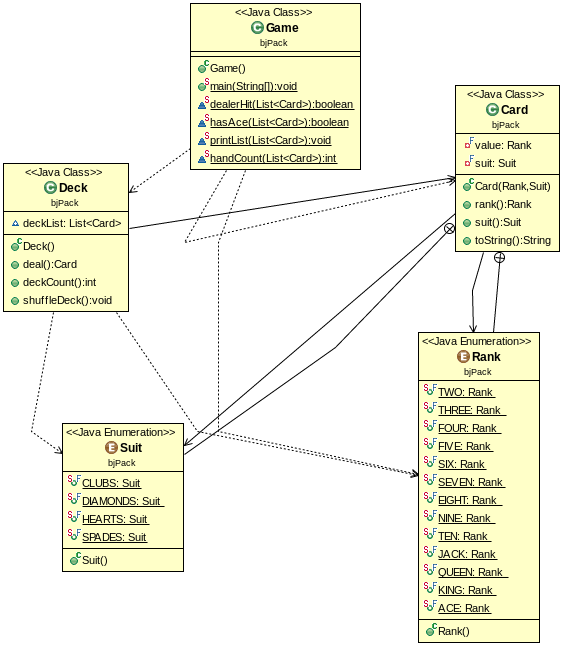
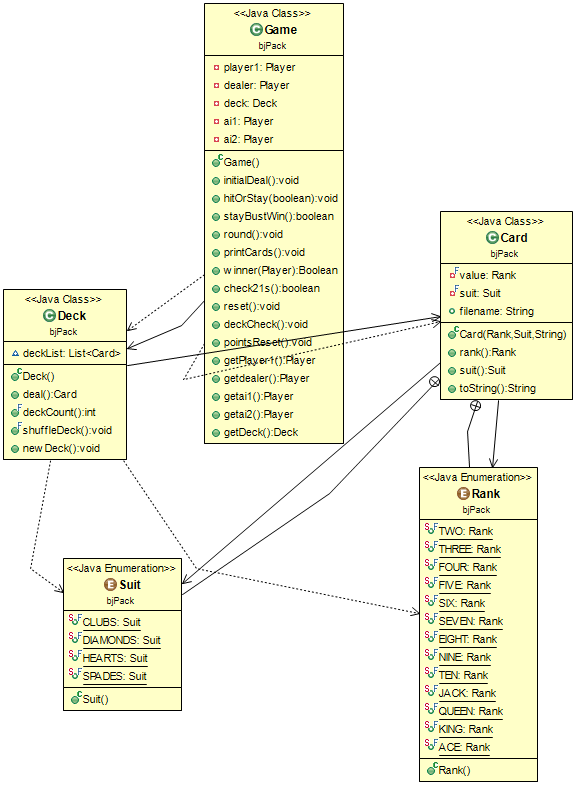
More stuff to api

diff --git a/Blackjack/src/bjPack/Game.java b/Blackjack/src/bjPack/Game.java
@@ -1,4 +1,5 @@
 package bjPack;
+
 /*****************************************************************
 Game class for blackjack game, handles the actual running
 of the game, interacting with the players and deck
@@ -14,12 +15,13 @@ public class Game {
 	private Deck deck;
 	private Player ai1;
 	private Player ai2;
-	
+
 	/*****************************************************************
-	Constructor for game class, initializes the human and ai players,
-	ai dealer, sets dealer's point to default 500
-	@param n/a
-	*****************************************************************/
+	 * Constructor for game class, initializes the human and ai players, ai
+	 * dealer, sets dealer's point to default 500
+	 * 
+	 * @param n/a
+	 *****************************************************************/
 	public Game() {
 
 		deck = new Deck();
@@ -33,11 +35,12 @@ public class Game {
 	}
 
 	/*****************************************************************
-	method to peform initial dealer, deals each player 2 cards, does
-	bets for each player, each non-dealer player bets 10, dealer bets 
-	30, 10 points against each other player. 
-	@param n/a
-	*****************************************************************/
+	 * method to peform initial dealer, deals each player 2 cards, does bets for
+	 * each player, each non-dealer player bets 10, dealer bets 30, 10 points
+	 * against each other player.
+	 * 
+	 * @param n/a
+	 *****************************************************************/
 	public void initialDeal() {
 		player1.bet(10);
 		dealer.bet(30);
@@ -55,30 +58,33 @@ public class Game {
 	}
 
 	/*****************************************************************
-	sets user hit to true or false depending on input
-	@param boolean hit, sets userHit in player to true or false
-	*****************************************************************/
+	 * sets user hit to true or false depending on input
+	 * 
+	 * @param hit,
+	 *            sets userHit in player to true or false
+	 *****************************************************************/
 	public void hitOrStay(boolean hit) {
 		player1.userHit(hit);
 	}
 
 	/*****************************************************************
-	checks if both player and dealer have stayed, if the player or 
-	dealer have busted, or if the player or dealer has
-	reached 21, and returns a boolean value. 
-	@param n/a
-	@returns returns true if game end circumstance listed
-	above have happened, false if they haven't and game keeps going
-	*****************************************************************/
+	 * checks if both player and dealer have stayed, if the player or dealer
+	 * have busted, or if the player or dealer has reached 21, and returns a
+	 * boolean value.
+	 * 
+	 * @param n/a
+	 * @return returns true if game end circumstance listed above have happened,
+	 *         false if they haven't and game keeps going
+	 *****************************************************************/
 	public boolean stayBustWin() {
 
-		if (player1.getUserHit() == false && 
-				dealer.getUserHit() == false) {
+		if (player1.getUserHit() == false && dealer.getUserHit() == false) {
 			return true;
 		}
 
-		if (player1.playerBust() == true || dealer.playerBust() == true)
+		if (player1.playerBust() == true || dealer.playerBust() == true) {
 			return true;
+		}
 		if (player1.blackJack() == true || dealer.blackJack() == true) {
 			return true;
 		}
@@ -91,19 +97,18 @@ public class Game {
 	}
 
 	/*****************************************************************
-	 runs through a round of the game, checking if each player has 
-	 stayed or busted, and if they haven't deals them a card
-	@param n/a
-	*****************************************************************/
+	 * runs through a round of the game, checking if each player has stayed or
+	 * busted, and if they haven't deals them a card
+	 * 
+	 * @param n/a
+	 *****************************************************************/
 	public void round() {
 		deckCheck();
-		if (player1.getUserHit() == true && 
-				player1.playerBust() == false) {
+		if (player1.getUserHit() == true && player1.playerBust() == false) {
 			player1.addCard(deck.deal());
 		}
 		if (dealer.getUserHit() == true && player1.playerBust() == false) {
-			if (dealer.playerHit(player1) == true && 
-					dealer.playerBust() == false) {
+			if (dealer.playerHit(player1) == true && dealer.playerBust() == false) {
 				dealer.addCard(deck.deal());
 			}
 
@@ -119,9 +124,10 @@ public class Game {
 	}
 
 	/*****************************************************************
-	 prints cards in console, only used for testing purposes 
-	@param n/a
-	*****************************************************************/
+	 * prints cards in console, only used for testing purposes.
+	 * 
+	 * @param n/a
+	 *****************************************************************/
 	public void printCards() {
 		System.out.print("player hand is");
 		player1.printList();
@@ -134,29 +140,27 @@ public class Game {
 	}
 
 	/*****************************************************************
-	 checks the player sent to the method against the dealer, 
-	 returns true if player wins, false if dealer wins, redistributes 
-	 bets accordingly. 
-	@param Player player, the player to check against the dealer
-	@return True if player has beaten dealer, false if player has
-	lost against the dealer.
-	*****************************************************************/
+	 * checks the player sent to the method against the dealer, returns true if
+	 * player wins, false if dealer wins, redistributes bets accordingly.
+	 * 
+	 * @param player
+	 *            player, the player to check against the dealer
+	 * @return True if player has beaten dealer, false if player has lost
+	 *         against the dealer.
+	 *****************************************************************/
 	public Boolean winner(Player player) {
 		if (dealer.handValue() == 21) {
 			player.playerLose();
 			dealer.dealerWin(player.getBet());
 			return false;
 		}
-		if ((player.handValue() > dealer.handValue() && 
-				player.handValue() <= 21)
-				|| (dealer.playerBust() == true && 
-				player.playerBust() == false)) {
+		if ((player.handValue() > dealer.handValue() && player.handValue() <= 21)
+				|| (dealer.playerBust() == true && player.playerBust() == false)) {
 			player.playerWin();
 			dealer.playerLose();
 			return true;
 
-		} else if (dealer.handValue() >= player.handValue() || 
-				player.playerBust() == true) {
+		} else if (dealer.handValue() >= player.handValue() || player.playerBust() == true) {
 			player.playerLose();
 			dealer.dealerWin(player.getBet());
 			return false;
@@ -167,10 +171,11 @@ public class Game {
 	}
 
 	/*****************************************************************
-	checks if player or dealer has 21
-	@param n/a
-	@return returns true if player or dealer has 21, false if not
-	*****************************************************************/
+	 * checks if player or dealer has 21
+	 * 
+	 * @param n/a
+	 * @return returns true if player or dealer has 21, false if not
+	 *****************************************************************/
 	public boolean check21s() {
 		if (player1.blackJack() == true || dealer.blackJack() == true) {
 			return true;
@@ -179,10 +184,10 @@ public class Game {
 	}
 
 	/*****************************************************************
-	resets the game, discards player hands, remakes and reshuffles
-	the deck. 
-	@param n/a
-	*****************************************************************/
+	 * resets the game, discards player hands, remakes and reshuffles the deck.
+	 * 
+	 * @param n/a
+	 *****************************************************************/
 	public void reset() {
 		player1.getHand().DiscardHand();
 		dealer.getHand().DiscardHand();
@@ -194,10 +199,11 @@ public class Game {
 	}
 
 	/*****************************************************************
-	checks if deck is running low on cards, creates new deck
-	and re-shuffles if it is
-	@param n/a
-	*****************************************************************/
+	 * checks if deck is running low on cards, creates new deck and re-shuffles
+	 * if it is
+	 * 
+	 * @param n/a
+	 *****************************************************************/
 	public void deckCheck() {
 		if (deck.deckList.size() < 8) {
 			deck = new Deck();
@@ -206,9 +212,10 @@ public class Game {
 	}
 
 	/*****************************************************************
-	resets all points to reset, as if it were a new game
-	@param n/a
-	*****************************************************************/
+	 * resets all points to reset, as if it were a new game
+	 * 
+	 * @param n/a
+	 *****************************************************************/
 	public void pointsReset() {
 		player1.setPoints(100);
 		dealer.setPoints(500);
@@ -218,48 +225,53 @@ public class Game {
 	}
 
 	/*****************************************************************
-	returns player1 from game
-	@param n/a
-	@return player1
-	*****************************************************************/
+	 * returns player1 from game
+	 * 
+	 * @param n/a
+	 * @return player1
+	 *****************************************************************/
 	public Player getPlayer1() {
 		return player1;
 	}
 
 	/*****************************************************************
-	returns dealer from game
-	@param n/a
-	@return dealer
-	*****************************************************************/
+	 * returns dealer from game
+	 * 
+	 * @param n/a
+	 * @return dealer
+	 *****************************************************************/
 	public Player getdealer() {
 		return dealer;
 	}
 
 	/*****************************************************************
-	returns ai1 from game
-	@param n/a
-	@return ai1
-	*****************************************************************/
+	 * returns ai1 from game
+	 * 
+	 * @param n/a
+	 * @return ai1
+	 *****************************************************************/
 	public Player getai1() {
 		return ai1;
 	}
 
 	/*****************************************************************
-	returns a12 from game
-	@param n/a
-	@return ai2
-	*****************************************************************/
+	 * returns a12 from game
+	 * 
+	 * @param n/a
+	 * @return ai2
+	 *****************************************************************/
 	public Player getai2() {
 		return ai2;
 	}
-	
+
 	/*****************************************************************
-	returns deck from game
-	@param n/a
-	@return deck
-	*****************************************************************/
-	public Deck getDeck(){
+	 * returns deck from game
+	 * 
+	 * @param n/a
+	 * @return deck
+	 *****************************************************************/
+	public Deck getDeck() {
 		return deck;
 	}
-	
+
 }

diff --git a/Blackjack/src/bjPack/Player.java b/Blackjack/src/bjPack/Player.java
@@ -123,7 +123,7 @@ public class Player {
 	out of the players points and put into "bet," if they win they win
 	equal to their bet, and get their bet back, if they lose they lose
 	the points in bet
-	@param int bet, amount to bet
+	@param bet, amount to bet
 	*****************************************************************/
 	public void bet(int bet) {
 		if (points < 10) {
@@ -165,7 +165,7 @@ public class Player {
 
 	/*****************************************************************
 	adds card in parameter to player's hand
-	@param Card card, card to be added
+	@param card, card to be added
 	*****************************************************************/
 	public void addCard(Card card) {
 		hand.AddtoHand(card);
@@ -213,7 +213,7 @@ public class Player {
 	@param n/a
 	@return returns hand
 	*****************************************************************/
-	public Hand getHand(){
+	public Hand getHand() {
 		return hand;
 	}
 	
@@ -222,7 +222,7 @@ public class Player {
 	@param n/a
 	@return winLose 
 	*****************************************************************/
-	public boolean winLose(){
+	public boolean winLose() {
 		return winLose;
 	}
 	
@@ -231,7 +231,7 @@ public class Player {
 	@param n/a
 	@return userHit 
 	*****************************************************************/
-	public boolean getUserHit(){
+	public boolean getUserHit() {
 		return userHit;
 	}
 

diff --git a/Blackjack/src/bjPack/Card.java b/Blackjack/src/bjPack/Card.java
@@ -39,6 +39,8 @@ public class Card {
 	 *            the rank value of the object
 	 * @param suit
 	 *            the suit value of the object
+	 *  @param filename
+	 *  	filename for the card
 	 *********************************************************************/
 	public Card(Rank value, Suit suit, String filename) {
 		super();

diff --git a/Blackjack/src/bjPack/Hand.java b/Blackjack/src/bjPack/Hand.java
@@ -19,9 +19,8 @@ public class Hand {
 
 	public void AddtoHand(Card input) {
 		if (ihand.size() < 8) {
-		ihand.add(input);
-		}
-		else {
+			ihand.add(input);
+		} else {
 			DiscardHand();
 		}
 	}
